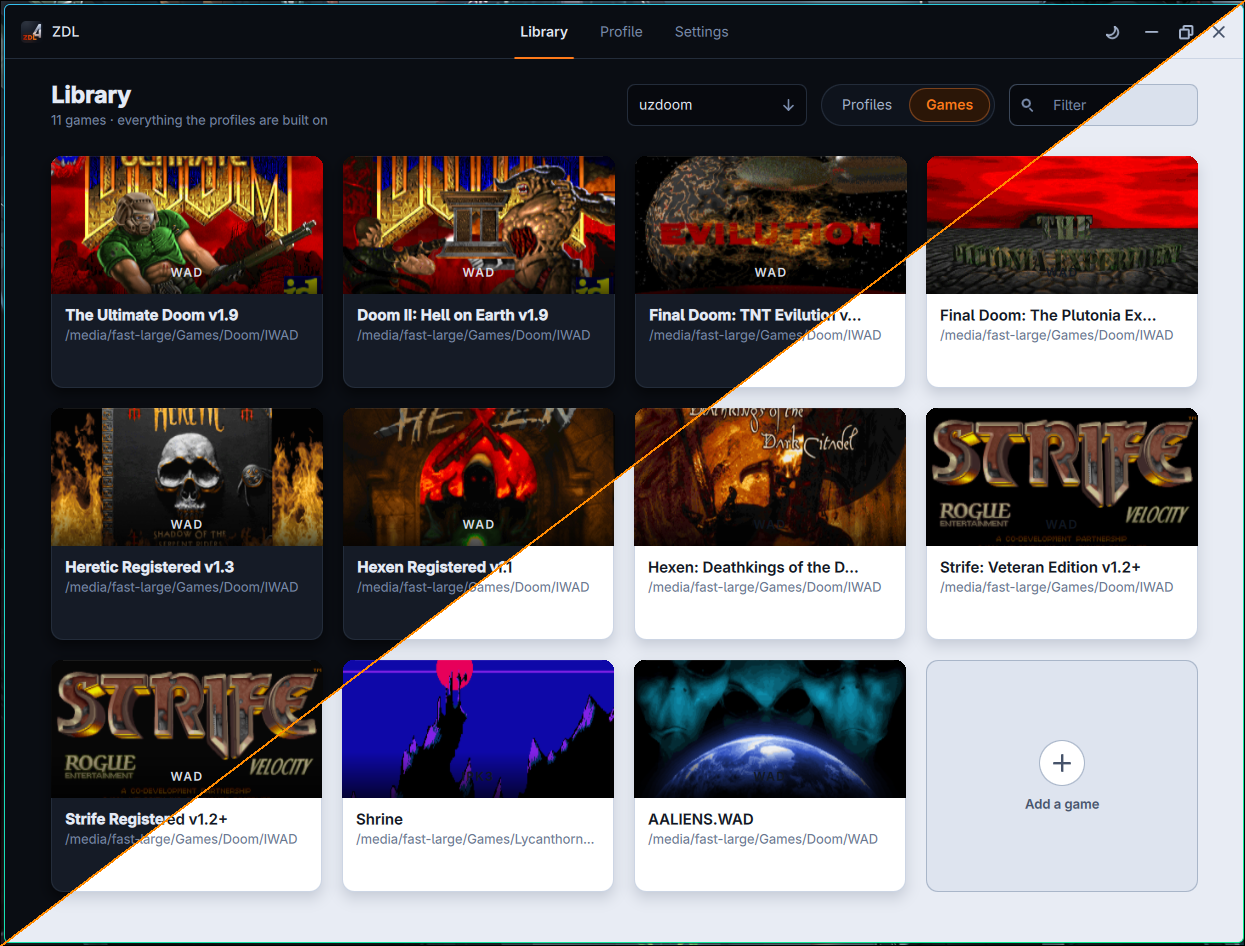
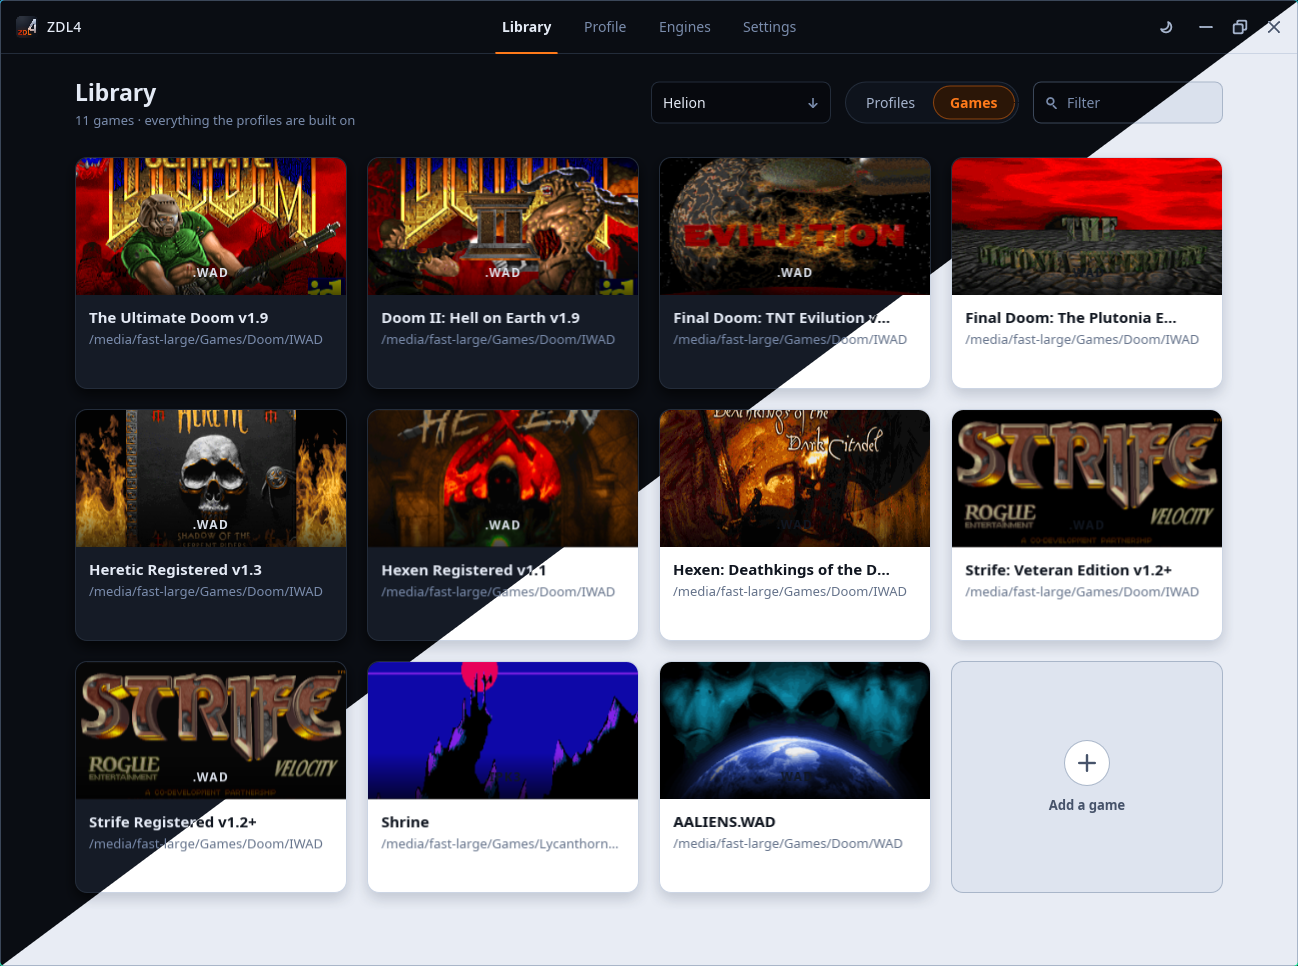
Rename to ZDL4

diff --git a/src/gui/Runs.cpp b/src/gui/Runs.cpp
@@ -152,7 +152,7 @@ void Runs::began(const std::string &key, const std::string &title,
         held->watch(output);
         dock(key);
     } else {
-        held->note("This profile is not recording the game's output, so only ZDL's own side of "
+        held->note("This profile is not recording the game's output, so only ZDL4's own side of "
                    "it is here.");
     }
 
@@ -232,7 +232,7 @@ void Runs::close(const std::string &key) {
         Process::stop(found->second.id);
 
         if (RunLog *held = log(key); held != nullptr) {
-            held->note("ZDL asked it to quit.");
+            held->note("ZDL4 asked it to quit.");
         }
 
         if (_showing == key) {
@@ -249,7 +249,7 @@ void Runs::close(const std::string &key) {
         Process::force(found->second.id);
 
         if (RunLog *held = log(key); held != nullptr) {
-            held->note("ZDL took it down.");
+            held->note("ZDL4 took it down.");
         }
 
         return;

diff --git a/src/gui/Engines.cpp b/src/gui/Engines.cpp
@@ -636,9 +636,9 @@ void Engines::relist() {
     }
 
     _notifier->info(added == 1
-                        ? "A source port ZDL had fetched was missing from this config."
+                        ? "A source port ZDL4 had fetched was missing from this config."
                         : std::to_string(added)
-                          + " source ports ZDL had fetched were missing from this config.",
+                          + " source ports ZDL4 had fetched were missing from this config.",
                     "Put back in the list");
 }
 

diff --git a/src/core/Launcher.cpp b/src/core/Launcher.cpp
@@ -548,7 +548,7 @@ bool substitute(const Config &config, const std::string &name, std::string &valu
         return true;
     }
 
-    say(error, "{" + name + "} is not one ZDL knows. There is {source_port}, {game}, "
+    say(error, "{" + name + "} is not one ZDL4 knows. There is {source_port}, {game}, "
         "{addon_1} upwards, {profile}, {cfgdir} and {savedir}.");
 
     return false;

diff --git a/src/core/Config.cpp b/src/core/Config.cpp
@@ -380,7 +380,7 @@ bool Config::save(const std::filesystem::path &path, std::string *error) const {
     builder.setRoot(root);
 
     builder.addInt(root, "version", SCHEMA_VERSION);
-    builder.addString(root, "engine", "ZDL");
+    builder.addString(root, "engine", "ZDL4");
     builder.addString(root, "appVersion", QZDL_VERSION);
 
     yyjson_mut_val *gen = builder.newObject();

diff --git a/src/gui/ConfigBridge.cpp b/src/gui/ConfigBridge.cpp
@@ -1203,7 +1203,7 @@ void ConfigBridge::bind() {
         }
 
         pushPath();
-        _notifier->success("This config is now the one ZDL opens by default.");
+        _notifier->success("This config is now the one ZDL4 opens by default.");
     });
 
     cfg.on_load_zdl([this](const slint::SharedString &path) {

diff --git a/src/gui/qzdl_gui.cpp b/src/gui/qzdl_gui.cpp
@@ -50,7 +50,7 @@ void reportFailure(const std::string &text) {
 
     MultiByteToWideChar(CP_UTF8, 0, message.c_str(), -1, said.data(), wide);
 
-    MessageBoxW(nullptr, said.c_str(), L"ZDL", MB_OK | MB_ICONERROR);
+    MessageBoxW(nullptr, said.c_str(), L"ZDL4", MB_OK | MB_ICONERROR);
 #endif
 }
 

diff --git a/README.md b/README.md
@@ -1,4 +1,4 @@
-# ZDL
+# ZDL4
 
 A launcher for Doom engine source ports. Pick a port, pick a game, add whatever you want on top of it, and launch.
 
@@ -9,11 +9,11 @@ A launcher for Doom engine source ports. Pick a port, pick a game, add whatever 
 Download the build for your system from the
 [releases page](https://github.com/spacebub/qzdl/releases).
 
-ZDL is only the launcher. The source port and the game data (IWADs/IPK3s) are yours to get separately.
+ZDL4 is only the launcher. The source port and the game data (IWADs/IPK3s) are yours to get separately.
 
 ## Quick start
 
-1. Open **Engines** and add the source ports you already have, or let ZDL fetch
+1. Open **Engines** and add the source ports you already have, or let ZDL4 fetch
    one for you under **Get more**. Games are added on the library's games shelf.
    Each one is named after the file it points at.
 2. Back on the library, press **New profile**, or click a game to play it as it
@@ -31,10 +31,10 @@ config knows about, one card each, with the card at the end for adding a port
 that is already on the machine. A port can be renamed, pointed at another file,
 opened in a file manager or taken out again from its own card.
 
-**Get more** is the list ZDL knows where to fetch: UZDoom, GZDoom, ZDoom,
+**Get more** is the list ZDL4 knows where to fetch: UZDoom, GZDoom, ZDoom,
 Zandronum, DSDA-Doom, Woof!, Nugget Doom, Chocolate Doom and Crispy Doom, plus
 MBF and Doom Legacy, which are DOS programs and say so on the card. Press
-**Install** and the build for this system is downloaded, unpacked into ZDL's
+**Install** and the build for this system is downloaded, unpacked into ZDL4's
 own data directory and added to the installed ones, ready to be picked on a
 profile. A DOS one is added as a DOS program, so it is launched inside DOSBox.
 
@@ -60,7 +60,7 @@ The heading at the top of the page is how you switch between them.
 
 ## Per profile port settings
 
-Everything above is what ZDL hands the source port. The port's own settings,
+Everything above is what ZDL4 hands the source port. The port's own settings,
 controls, video and sound, normally live in one file it shares between every
 launch.
 
@@ -96,13 +96,13 @@ profile with two) is said under the field, and the profile does not launch
 until it is fixed. Everything else is passed on as typed, so a launch can be
 wrapped in anything the system has: `gamemoderun {source_port} -iwad {game}`.
 
-The command starts as the one ZDL would have run, written in these words, so
+The command starts as the one ZDL4 would have run, written in these words, so
 it is a line to edit rather than a blank one.
 
 ## DOS ports
 
 A source port can be marked as a DOS program when it is added or edited, and is
-then launched inside DOSBox. The DOS ones ZDL fetches are marked already. Point
+then launched inside DOSBox. The DOS ones ZDL4 fetches are marked already. Point
 Settings at a DOSBox, or leave it empty and whichever one the machine already
 has is used. A profile on a DOS port gives DOSBox the whole screen unless
 **Full screen** is turned off on its page.

diff --git a/COMPILE.md b/COMPILE.md
@@ -1,4 +1,4 @@
-# ZDL compiling instructions
+# ZDL4 compiling instructions
 
 ## 1. License
 
@@ -18,7 +18,7 @@ associated `LICENSE` files for details.
 
 ## 2. What you need
 
-ZDL is C++23. The interface is Slint, built from source at configure time and
+ZDL4 is C++23. The interface is Slint, built from source at configure time and
 linked in statically.
 
 - CMake 3.25 or newer, and Ninja.
@@ -31,7 +31,7 @@ linked in statically.
   Windows uses WinHTTP and needs nothing.
 
 Sources: <https://github.com/spacebub/qzdl>. After compiling, see `README.md`
-for using ZDL.
+for using ZDL4.
 
 ## 3. Building
 
@@ -40,7 +40,7 @@ cmake -S . -B build -G Ninja -DCMAKE_BUILD_TYPE=Release
 cmake --build build
 ```
 
-The binary is `build/bin/ZDL` (`ZDL.exe` on Windows) and depends on nothing
+The binary is `build/bin/ZDL4` (`ZDL4.exe` on Windows) and depends on nothing
 that is not part of the system. Release is the configuration to ship: it is
 what the size and link settings are written for. A `Debug` configuration
 builds Slint unoptimised as well, which is slow to build and to run; for
@@ -55,7 +55,7 @@ Options:
                             the fetched sources; or a path to one you have
 -DQZDL_SLINT_PACKAGE=ON     use an installed Slint SDK. Development only:
                             it links Slint as a shared library with far
-                            more in it than ZDL needs
+                            more in it than ZDL4 needs
 -DQZDL_ACCESSIBILITY=ON     compile Slint's accessibility bridge in
                             (about 0.8 MB)
 -DSANITIZE=ON               address and undefined sanitizers; lsan.supp
@@ -86,7 +86,7 @@ cmake --install build --prefix {where the app should end up}
 ```
 
 The binary lands in `bin`; on Linux the desktop entry and the icons land under
-`share`, on macOS it is a `ZDL.app` bundle at the top of the prefix.
+`share`, on macOS it is a `ZDL4.app` bundle at the top of the prefix.
 
 ## 5. Static analysis
 
